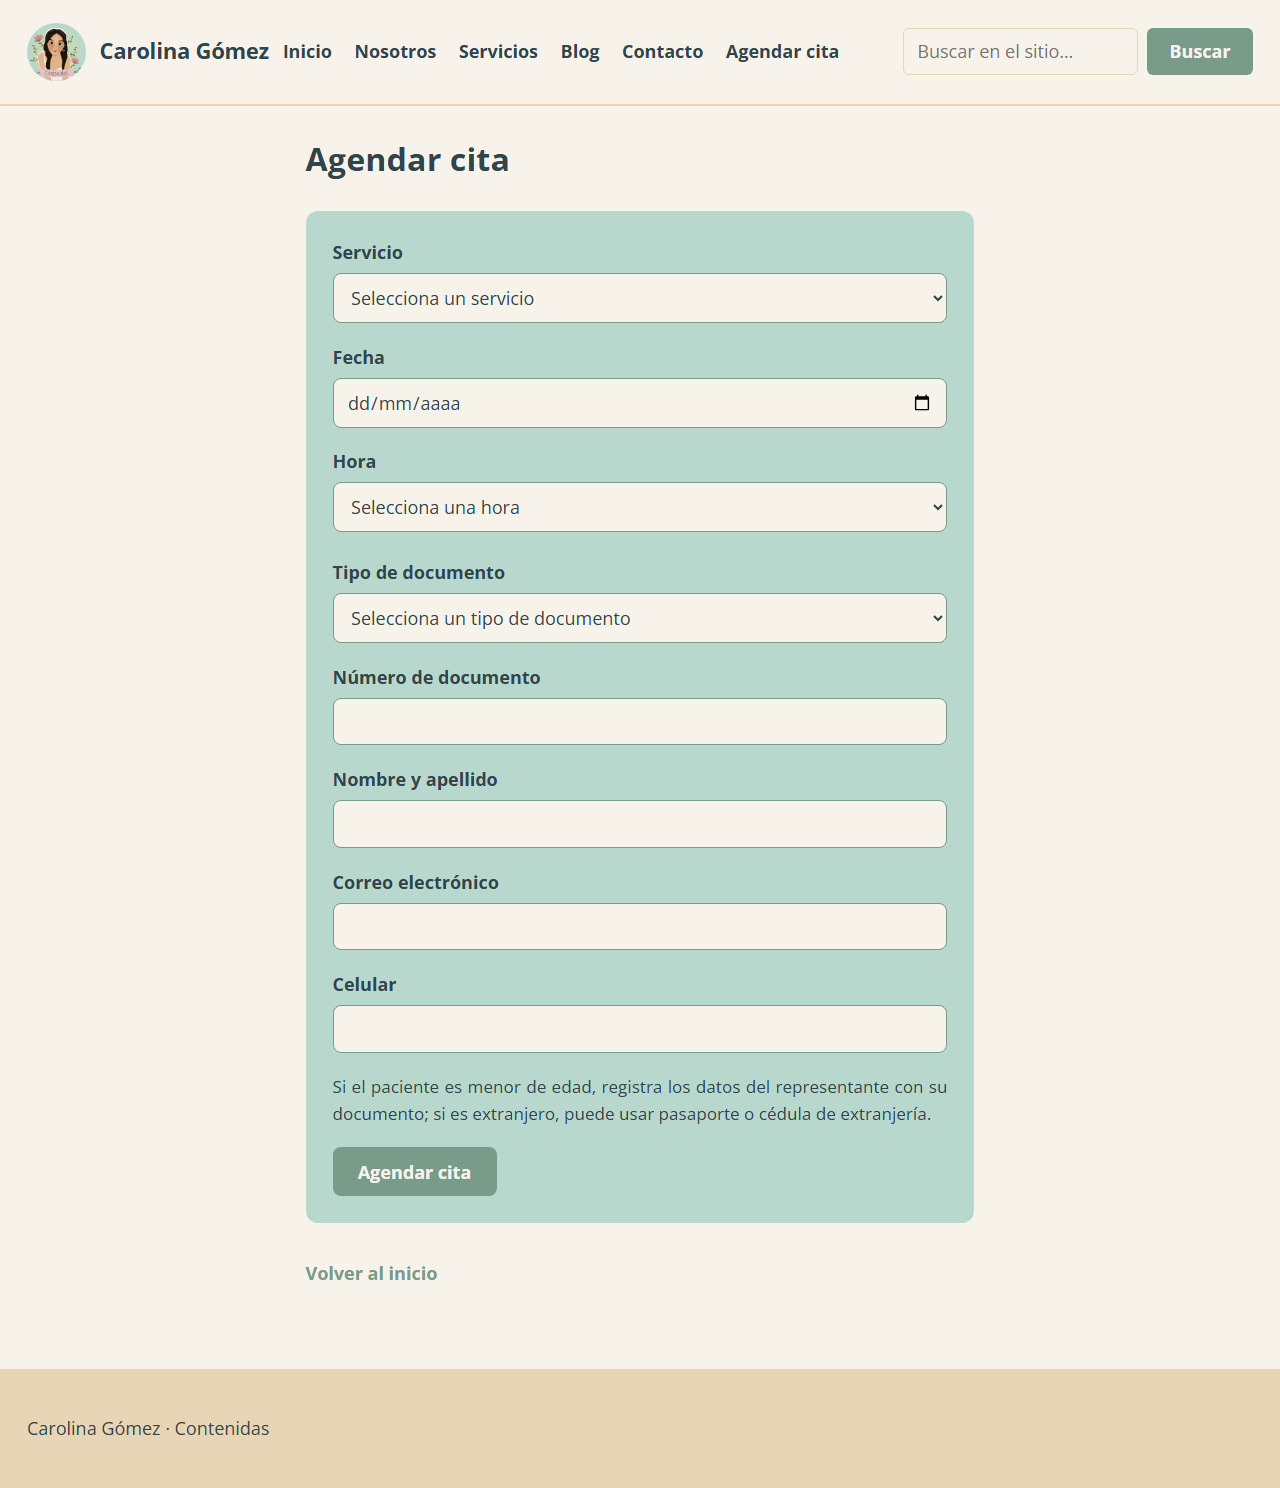
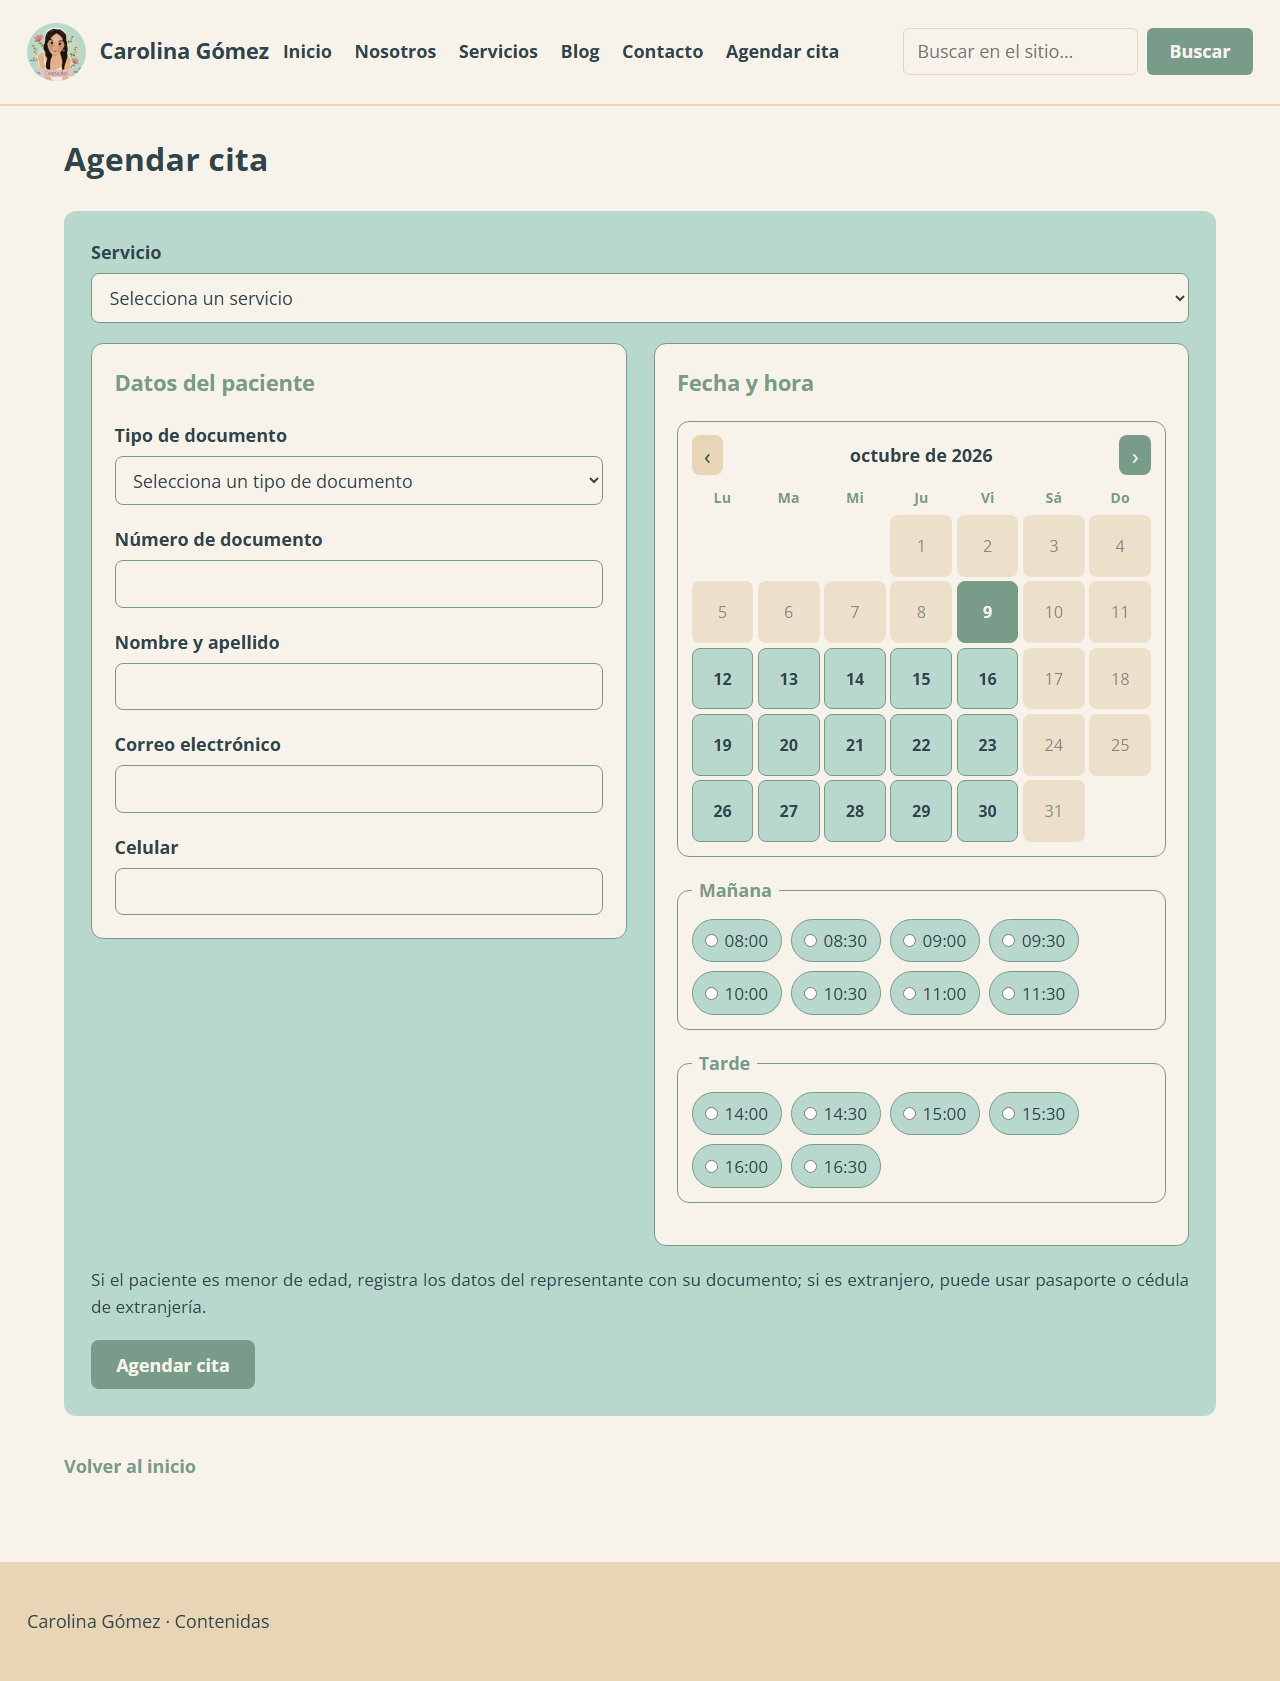
docs(HU-004): refresh QA evidence and screenshots for D19 two-column booking UI

diff --git a/docs/evidencias/hu-004/qa-hu-004.md b/docs/evidencias/hu-004/qa-hu-004.md
@@ -1,17 +1,17 @@
-# Informe QA — HU-004 Agendar una cita
+# Informe QA — HU-004 Agendar una cita
 
 - **HU:** HU-004 — Spec 004 (`specs/004_agendar-cita/spec.md`, enmendada 2026-10-09)
 - **Rama:** `feature/hu-004`
-- **Commit:** `eb10fc3` (suite sobre esta revisión)
+- **Commit:** `a6eb26c` (suite sobre la revisión con modificación D19)
 - **Fecha:** 2026-10-09
-- **Ejecución:** `python -m pytest -q` → **101 PASS / 0 FAIL** (74 previos de
-  HU-001/002/003/016 + 27 nuevos de HU-004)
+- **Ejecución:** `python -m pytest -q` → **102 PASS / 0 FAIL** (74 previos de
+  HU-001/002/003/016 + 28 nuevos de HU-004)
 
 ## Resumen
 
 | Total | PASS | FAIL | BLOCKED |
 |---|---|---|---|
-| 27 | 27 | 0 | 0 |
+| 28 | 28 | 0 | 0 |
 
 ## Casos de prueba
 
@@ -44,13 +44,14 @@
 | TC-004-025 | `python -m pytest tests/test_hu_004.py -v` | PASS | Formulario estrictamente de 8 campos (sin textarea ni campos extra) |
 | TC-004-026 | `python -m pytest tests/test_hu_004.py -v` | PASS | E2E: home → «Agendar cita» → submit → confirmación con «Pendiente» |
 | TC-004-027 | `python -m pytest tests/test_hu_004.py -v` | PASS | Fuera de alcance: sin textos de correo/WhatsApp/cancelación/n8n; portada y `/servicios` sin `<form>` |
+| TC-004-028 | `python -m pytest tests/test_hu_004.py -v` | PASS | D19: layout 2 columnas, datepicker propio (`#booking-calendar` sin `type="date"`), horas en fieldsets Mañana/Tarde con radios; CSS y JS con calendario |
 
 ## Regresión
 
 | Suite | Resultado |
 |---|---|
 | HU-001/002/003/016 (74 tests previos) | PASS (0 FAIL, sin relajar aserciones) |
-| `python -m pytest -q` (101 tests) | **101 PASS / 0 FAIL** |
+| `python -m pytest -q` (102 tests) | **102 PASS / 0 FAIL** |
 
 ## Demo manual (servidor `python app.py`, 2026-10-09)
 
@@ -70,12 +71,26 @@ Recorrido del flujo completo contra `http://127.0.0.1:5000`:
    por `(service, date)`; Psicología Integral conserva sus 14 horas mientras
    Psiconutrición muestra 13. ✔
 
+### Modificación visual D19 (2026-10-09)
+
+1. `GET /citas` → **200**; en escritorio se ven las 2 columnas «Datos del
+   paciente» ‖ «Fecha y hora» con datepicker y los bloques Mañana/Tarde. ✔
+2. CDP: calendario de octubre con 16 días agendables (lun–vie ≥ hoy)
+   diferenciados, 15 deshabilitados (pasados + fines de semana), botón de mes
+   anterior deshabilitado en el mes actual. ✔
+3. CDP: cambiar servicio a Psiconutrición + clic en día 2026-10-14 →
+   `booking-date` = `2026-10-14`, fetch `/citas/horarios` → 7+6 horas (la 09:00
+   ocupada desaparece) y radio marcado correctamente. ✔
+4. `POST /citas` (2026-10-15 09:30) → **303** → `GET /citas/confirmada/3` →
+   **200**; el JSON de 2026-10-15 ya no incluye `09:30`. ✔
+5. Sin desborde: `scrollWidth` = `clientWidth` (1280 y 375). ✔
+
 ## Evidencia visual
 
 | Fichero | Medidas programáticas | Verificación |
 |---|---|---|
-| `docs/evidencias/hu-004/escritorio-1280.png` | 1280×1488 | CDP `Emulation.setDeviceMetricsOverride`; `scrollWidth` = 1280 (sin desborde) |
-| `docs/evidencias/hu-004/movil-375.png` | 375×1728 | CDP; `scrollWidth` = 375 (sin desborde) |
+| `docs/evidencias/hu-004/escritorio-1280.png` | 1280×1681 | CDP `Emulation.setDeviceMetricsOverride`; `scrollWidth` = 1280 (sin desborde) |
+| `docs/evidencias/hu-004/movil-375.png` | 375×2542 | CDP; `scrollWidth` = 375 (sin desborde) |
 
 ## Defectos encontrados
 
@@ -88,14 +103,17 @@ Ninguno.
 | Spec 004 enmendada (dudas Q1/Q2 cerradas, literales fijados) | ✔ commit `f68b765` |
 | Plan 004 (Q1–Q10 decididas) | ✔ commit `f68b765` |
 | `task.md` T1–T18 | ✔ |
+| `task.md` T20 (modificación visual D19) | ✔ |
 | Commits por fase (docs, contenido, persistencia, servicio, web, tests) | ✔ `f68b765`…`eb10fc3` |
+| Commits de la modificación D19 (docs, feat, test) | ✔ `f43902b`, `9948822`, `a6eb26c` |
 | Servidor de revisión | `python app.py` → http://127.0.0.1:5000/citas |
 
 ## Veredicto
 
-**PASS** — 27/27 TC en verde, 101/101 de la suite, regresión intacta y demo
-manual del flujo completo verificada.
+**PASS** — 28/28 TC en verde, 102/102 de la suite, regresión intacta, demo
+manual del flujo completo y de la modificación D19 verificadas.
 
 ## Aceptación de la HU
 
 - [ ] **ACEPTADA por la usuaria** (fecha: ____-__-__)
+
